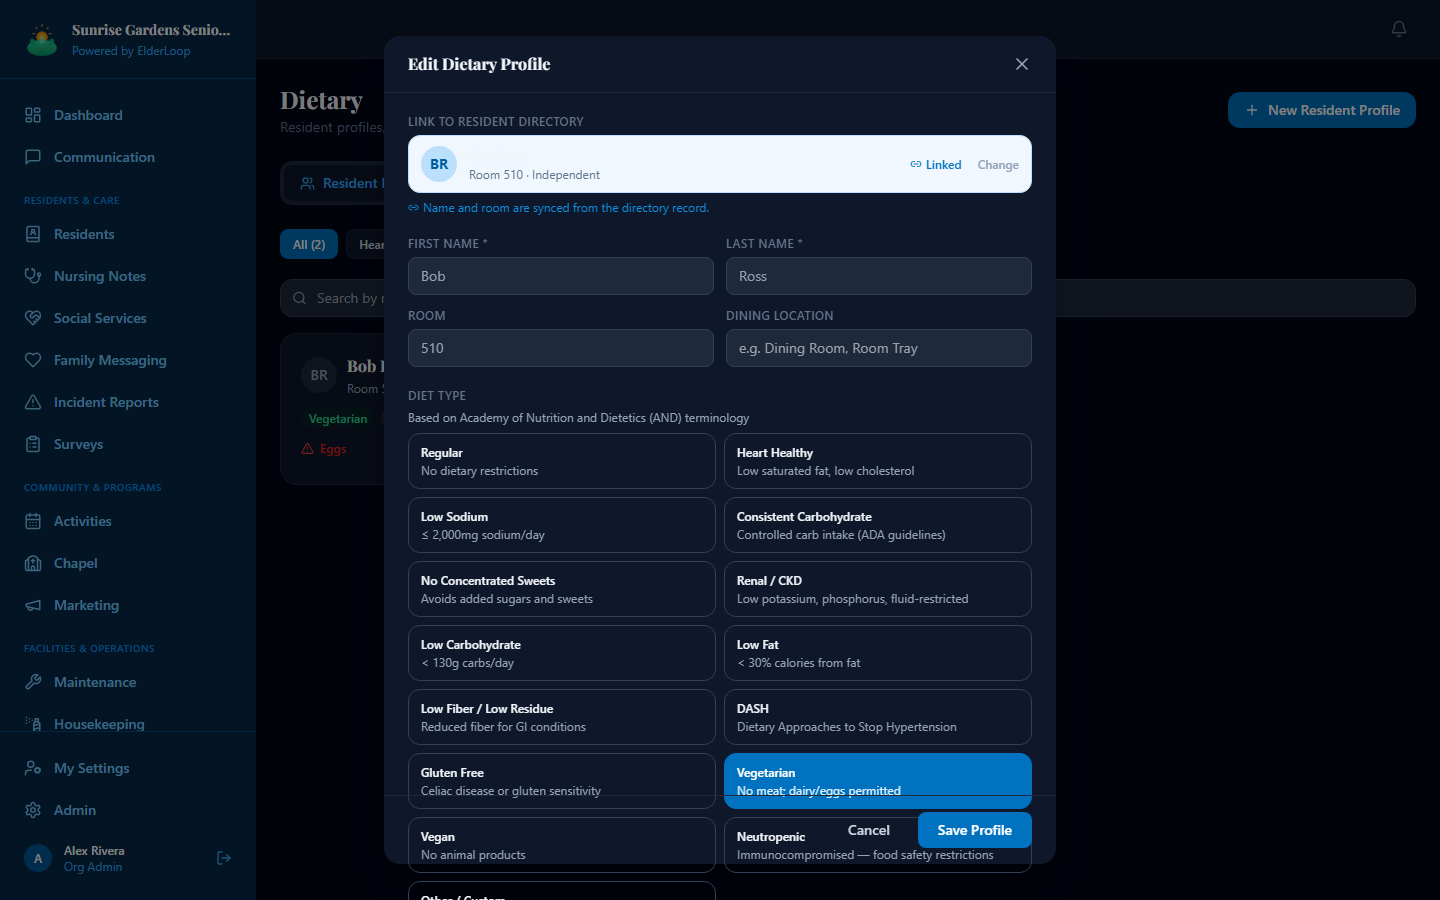
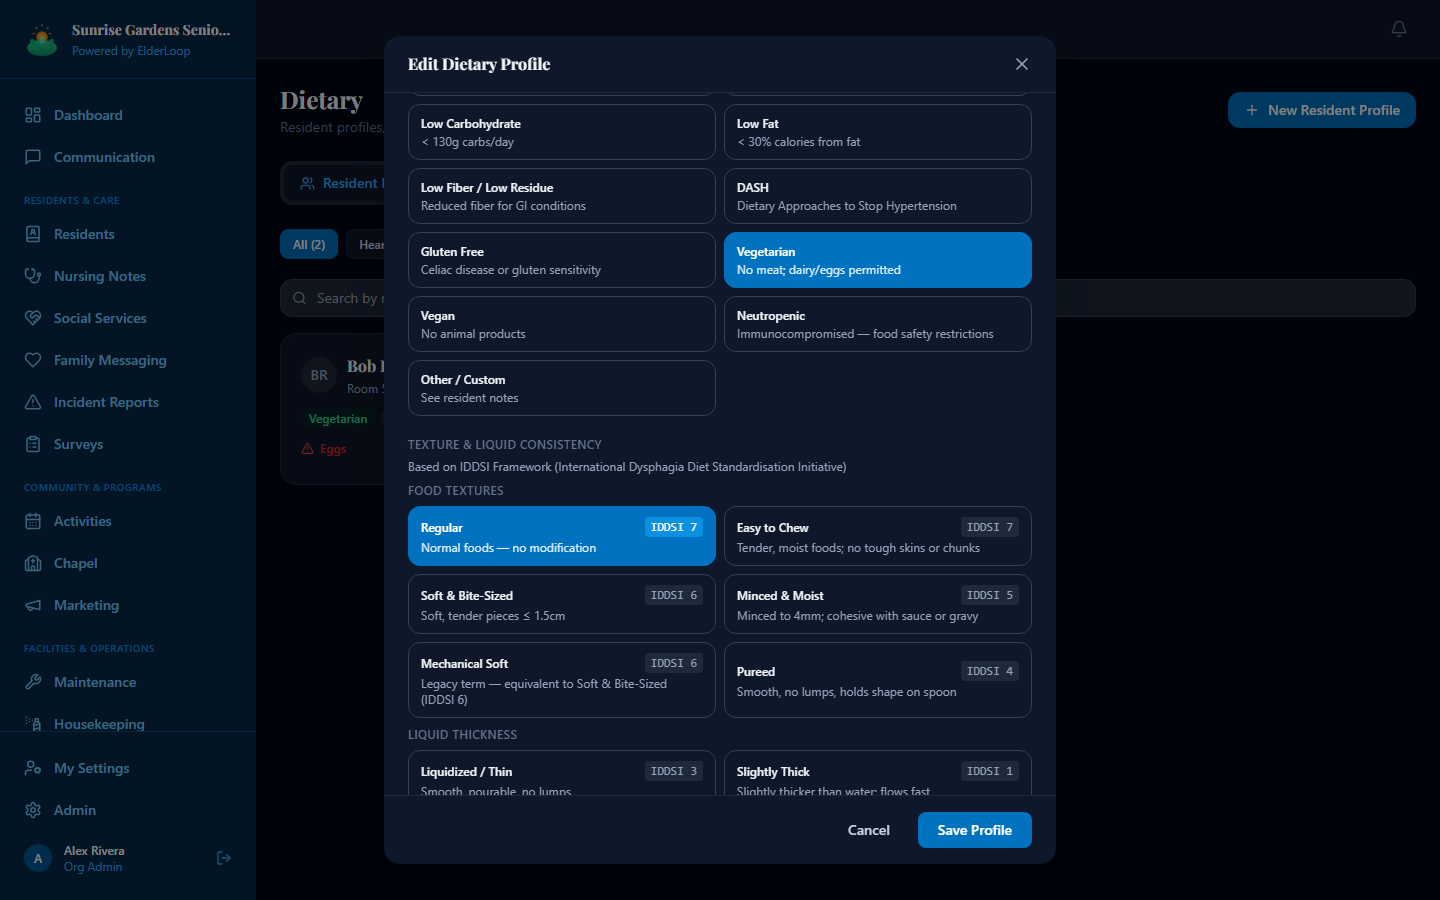
Add Activities training guide; fix fieldset overflow bug in 4 modals
- New public guide at /training/activities covering the month calendar,
  adding one-time and recurring activities with display controls (resident
  portal / digital signage visibility), the Upcoming list view, and Print
  Schedule - with real app screenshots. Added to the Training Library hub.

- Fix a real rendering bug found while capturing screenshots: Activities,
  Dietary, SupplyInventory, and SupplyVendors all used <fieldset
  disabled={readOnly} className="flex-1 overflow-y-auto ..."> as the
  scrollable container for a modal's form content. Fieldsets have a
  long-standing browser quirk where they don't clip overflowing content
  the way a <div> does, even with overflow-y: auto correctly computed -
  confirmed via scrollHeight (1076px) vastly exceeding clientHeight
  (702px) while the browser still painted the extra content bleeding
  into the footer buttons below. Fixed by moving the flex/overflow
  responsibility to a wrapping <div>, keeping <fieldset> only for its
  native disable-all-inputs behavior. Re-captured the affected Dietary
  training screenshot, which had this bug visible in the already-published
  guide.

Changed region(s): [[0.2812, 0.1244, 0.7188, 0.9644], [0.2812, 0.9956, 0.3438, 1.0]]

diff --git a/src/pages/training/ActivitiesGuide.jsx b/src/pages/training/ActivitiesGuide.jsx
@@ -1,0 +1,86 @@
+import { Frame, ShotsPair, Steps, Tip, SectionBlock, GuideHeader, GuideMasthead, GuideTOC, QuickRefTable, GuideFooter } from './TrainingComponents'
+
+const SHOT = (name) => `/training/activities/${name}`
+
+const NAV = [
+  { id: 'calendar', num: '01', label: 'Calendar View' },
+  { id: 'adding',   num: '02', label: 'Adding an Activity' },
+  { id: 'upcoming', num: '03', label: 'Upcoming List' },
+  { id: 'print',    num: '04', label: 'Print Schedule' },
+]
+
+export default function ActivitiesGuide() {
+  return (
+    <div className="min-h-screen bg-slate-50">
+      <GuideHeader backTo="/training" backLabel="← All training guides" />
+      <GuideMasthead
+        eyebrow="ElderLoop Staff Training"
+        title="Activities"
+        dek="A working guide to the activity calendar — building the month's programming, setting up recurring classes, and getting a schedule into residents' hands."
+        chips={['For: Activities staff, Supervisors, Managers', 'Where: Sidebar → Activities', '4 sections']}
+      />
+
+      <div className="max-w-5xl mx-auto px-6 grid md:grid-cols-[200px_minmax(0,1fr)] gap-10 py-4">
+        <GuideTOC nav={NAV} />
+
+        <main className="min-w-0">
+
+          <SectionBlock id="calendar" num="01" title="Calendar View"
+            dek="A full month at a glance, color-coded by category, with recurring classes already expanded onto every date they occur.">
+            <Frame src={SHOT('calendar-view.png')} alt="Activities month calendar" caption="July at a glance, filtered by category chips along the top" />
+            <h3 className="text-xs font-bold uppercase tracking-wide text-slate-400 mb-3">How to use it</h3>
+            <Steps items={[
+              { k: 1, text: 'Use the category chips (Fitness, Arts & Crafts, Games, Social, and more) to filter the calendar down to one type of programming at a time.' },
+              { k: 2, text: <>Click any empty spot on a day to add an activity for that date — click an existing event pill to open and edit it.</> },
+              { k: 3, text: <>A small refresh icon on an event means it's <b className="text-slate-900">recurring</b> — editing one occurrence edits the whole series, not just that day.</> },
+            ]} />
+          </SectionBlock>
+
+          <SectionBlock id="adding" num="02" title="Adding an Activity"
+            dek="Title, category, schedule, and where it repeats — plus control over whether it shows up for residents and on the lobby TV.">
+            <Frame src={SHOT('activity-modal.png')} alt="Activity form" caption="Category, schedule, and repeat options" />
+            <h3 className="text-xs font-bold uppercase tracking-wide text-slate-400 mb-3">How to use it</h3>
+            <Steps items={[
+              { k: 1, text: 'Give it a title, pick a category (this sets the color used everywhere the activity appears), and set the date, time, and location.' },
+              { k: 2, text: <>Toggle <b className="text-slate-900">All day event</b> for anything without a specific time slot.</> },
+              { k: 3, text: <>Under <b className="text-slate-900">Repeat</b>, choose Daily, Weekly, Every 2 weeks, or Monthly for a recurring class — set a Repeat Until date, or leave it blank to repeat indefinitely.</> },
+              { k: 4, text: <>Use <b className="text-slate-900">Show in Resident Portal</b> and <b className="text-slate-900">Show on Digital Signage</b> to control where it's visible — turn either off for a staff-only or internal planning entry.</> },
+            ]} />
+            <Tip>Deleting a recurring activity removes the whole series, not just one occurrence — there's a confirmation before it happens, but there's no way to delete a single date out of a recurring series today.</Tip>
+          </SectionBlock>
+
+          <SectionBlock id="upcoming" num="03" title="Upcoming List"
+            dek="The same activities as a scannable list instead of a grid — grouped by day, showing the next three months.">
+            <Frame src={SHOT('upcoming-list.png')} alt="Upcoming activities list view" caption="Grouped by date, with Today called out at the top" />
+            <h3 className="text-xs font-bold uppercase tracking-wide text-slate-400 mb-3">How to use it</h3>
+            <Steps items={[
+              { k: 1, text: <>Switch to <b className="text-slate-900">Upcoming</b> from the view toggle next to Calendar.</> },
+              { k: 2, text: 'This is often easier than the calendar for a quick "what’s happening today" check, or for reading off a printed staff handoff sheet.' },
+            ]} />
+          </SectionBlock>
+
+          <SectionBlock id="print" num="04" title="Print Schedule"
+            dek="A clean, printable version of the current month's calendar — grouped by day with times, locations, and descriptions.">
+            <Frame src={SHOT('print-schedule-modal.png')} alt="Print Schedule preview" caption="Preview before printing or posting" />
+            <h3 className="text-xs font-bold uppercase tracking-wide text-slate-400 mb-3">How to use it</h3>
+            <Steps items={[
+              { k: 1, text: <>Click <b className="text-slate-900">Print Schedule</b> from the Calendar view — it uses whatever month and category filter you currently have selected.</> },
+              { k: 2, text: <>Click <b className="text-slate-900">Print Schedule</b> again inside the preview to open a print-formatted version in a new tab, ready to print or post on a bulletin board.</> },
+            ]} />
+          </SectionBlock>
+
+          <QuickRefTable rows={[
+            ['Add a one-time event', 'Calendar → click a day → Add Activity'],
+            ['Set up a recurring class', 'Add Activity → Repeat → Weekly/Monthly/etc.'],
+            ['Hide something from residents', 'Add Activity → turn off Show in Resident Portal'],
+            ['Check what’s happening today', 'Upcoming view'],
+            ['Filter to one type of activity', 'Category chips above the calendar'],
+            ['Get a printable monthly schedule', 'Print Schedule button'],
+          ]} />
+
+          <GuideFooter label="Activities Module" />
+        </main>
+      </div>
+    </div>
+  )
+}

diff --git a/src/pages/dietary/Dietary.jsx b/src/pages/dietary/Dietary.jsx
@@ -361,7 +361,8 @@ function ResidentProfileModal({ resident, menus, canEdit, onClose, onSave }) {
           <h2 className="font-display font-semibold text-slate-800 dark:text-slate-100">{resident ? 'Edit Dietary Profile' : 'New Resident Profile'}</h2>
           <button onClick={onClose} className="text-slate-400 hover:text-slate-600"><X size={20} /></button>
         </div>
-        <fieldset disabled={readOnly} className="flex-1 overflow-y-auto px-6 py-5 space-y-5 disabled:opacity-75">
+        <div className="flex-1 overflow-y-auto px-6 py-5">
+        <fieldset disabled={readOnly} className="space-y-5 disabled:opacity-75">
           {error && <div className="px-4 py-2 bg-red-50 dark:bg-red-950/50 border border-red-200 dark:border-red-900/50 rounded-lg text-red-700 dark:text-red-400 text-sm">{error}</div>}
 
           {/* ── Link to Resident Directory ── */}
@@ -559,6 +560,7 @@ function ResidentProfileModal({ resident, menus, canEdit, onClose, onSave }) {
             <p className="text-xs text-slate-400 mt-1">Leave blank to use the org's active menu automatically.</p>
           </div>
         </fieldset>
+        </div>
         <div className="px-6 py-4 border-t border-slate-100 dark:border-slate-800 flex justify-end gap-3 flex-shrink-0">
           <button onClick={onClose} className="px-4 py-2 text-sm text-slate-600 dark:text-slate-300 hover:text-slate-800 dark:hover:text-slate-100 font-medium">{readOnly ? 'Close' : 'Cancel'}</button>
           {!readOnly && (

diff --git a/src/pages/supply/SupplyVendors.jsx b/src/pages/supply/SupplyVendors.jsx
@@ -51,7 +51,8 @@ function VendorModal({ vendor, orgId, canEdit, onClose, onSaved }) {
           <h2 className="font-display font-semibold text-slate-800 dark:text-slate-100">{isNew ? 'Add Vendor' : 'Edit Vendor'}</h2>
           <button onClick={onClose} className="text-slate-400 hover:text-slate-600 dark:hover:text-slate-300"><X size={20} /></button>
         </div>
-        <fieldset disabled={readOnly} className="flex-1 overflow-y-auto px-6 py-5 space-y-4 disabled:opacity-75">
+        <div className="flex-1 overflow-y-auto px-6 py-5">
+        <fieldset disabled={readOnly} className="space-y-4 disabled:opacity-75">
           {error && <div className="px-4 py-2 bg-red-50 dark:bg-red-950/50 border border-red-200 dark:border-red-900 rounded-lg text-red-700 dark:text-red-400 text-sm">{error}</div>}
           <div>
             <label className={labelCls}>Vendor Name *</label>
@@ -106,6 +107,7 @@ function VendorModal({ vendor, orgId, canEdit, onClose, onSaved }) {
             </div>
           </div>
         </fieldset>
+        </div>
         <div className="px-6 py-4 border-t border-slate-100 dark:border-slate-800 flex items-center justify-between flex-shrink-0">
           <div>{!isNew && canEdit && <button onClick={handleDelete} className="flex items-center gap-1.5 px-3 py-2 text-red-500 hover:text-red-700 hover:bg-red-50 dark:hover:bg-red-950/50 rounded-lg text-sm transition-colors"><Trash2 size={14} /> Delete</button>}</div>
           <div className="flex gap-3">

diff --git a/src/App.jsx b/src/App.jsx
@@ -51,6 +51,7 @@ const DietaryGuide   = lazy(() => import('./pages/training/DietaryGuide'))
 const NursingGuide   = lazy(() => import('./pages/training/NursingGuide'))
 const MaintenanceGuide = lazy(() => import('./pages/training/MaintenanceGuide'))
 const HousekeepingGuide = lazy(() => import('./pages/training/HousekeepingGuide'))
+const ActivitiesGuide = lazy(() => import('./pages/training/ActivitiesGuide'))
 
 // Public TV & role-specific portals (outside the staff Layout)
 import TV            from './pages/tv/TV'
@@ -212,6 +213,7 @@ export default function App() {
         <Route path="/training/nursing"             element={<Lazy><NursingGuide /></Lazy>} />
         <Route path="/training/maintenance"         element={<Lazy><MaintenanceGuide /></Lazy>} />
         <Route path="/training/housekeeping"        element={<Lazy><HousekeepingGuide /></Lazy>} />
+        <Route path="/training/activities"          element={<Lazy><ActivitiesGuide /></Lazy>} />
         <Route path="/resident"       element={user ? <ResidentPortal /> : <Navigate to="/login" replace />} />
         <Route path="/family-portal"  element={user ? <FamilyPortal />  : <Navigate to="/login" replace />} />
         <Route path="/rep"            element={!user ? <Navigate to="/login" replace /> : isSuperAdmin ? <Lazy><RepPortal /></Lazy> : <Navigate to="/app/dashboard" replace />} />

diff --git a/src/pages/activities/Activities.jsx b/src/pages/activities/Activities.jsx
@@ -146,7 +146,8 @@ function ActivityModal({ activity, canEdit, onClose, onSave, onDelete }) {
           <button onClick={onClose} className="text-slate-400 hover:text-slate-600"><X size={20} /></button>
         </div>
 
-        <fieldset disabled={readOnly} className="flex-1 overflow-y-auto px-6 py-5 space-y-5 disabled:opacity-75">
+        <div className="flex-1 overflow-y-auto px-6 py-5">
+        <fieldset disabled={readOnly} className="space-y-5 disabled:opacity-75">
           {error && <div className="px-4 py-2 bg-red-50 dark:bg-red-950/50 border border-red-200 dark:border-red-900/50 rounded-lg text-red-700 dark:text-red-400 text-sm">{error}</div>}
 
           {/* Title */}
@@ -269,6 +270,7 @@ function ActivityModal({ activity, canEdit, onClose, onSave, onDelete }) {
             </label>
           </div>
         </fieldset>
+        </div>
 
         <div className="px-6 py-4 border-t border-slate-100 dark:border-slate-800 flex items-center justify-between gap-3 flex-shrink-0">
           {!readOnly && activity?.id ? (

diff --git a/src/pages/supply/SupplyInventory.jsx b/src/pages/supply/SupplyInventory.jsx
@@ -148,7 +148,8 @@ function ItemModal({ item, vendors, orgId, profileId, canEdit, onClose, onSaved 
         </div>
 
         {/* Body */}
-        <fieldset disabled={readOnly} className="flex-1 overflow-y-auto px-6 py-5 disabled:opacity-75">
+        <div className="flex-1 overflow-y-auto px-6 py-5">
+        <fieldset disabled={readOnly} className="disabled:opacity-75">
           {error && (
             <div className="mb-4 px-4 py-2 bg-red-50 dark:bg-red-950/50 border border-red-200 dark:border-red-900 rounded-lg text-red-700 dark:text-red-400 text-sm">
               {error}
@@ -346,6 +347,7 @@ function ItemModal({ item, vendors, orgId, profileId, canEdit, onClose, onSaved 
             </div>
           )}
         </fieldset>
+        </div>
 
         {/* Footer */}
         <div className="px-6 py-4 border-t border-slate-100 dark:border-slate-800 flex items-center justify-between flex-shrink-0">

diff --git a/src/pages/training/TrainingHub.jsx b/src/pages/training/TrainingHub.jsx
@@ -1,5 +1,5 @@
 import { Link } from 'react-router-dom'
-import { HeartHandshake, ArrowRight, UtensilsCrossed, Stethoscope, Wrench, SprayCan } from 'lucide-react'
+import { HeartHandshake, ArrowRight, UtensilsCrossed, Stethoscope, Wrench, SprayCan, CalendarDays } from 'lucide-react'
 
 const GUIDES = [
   {
@@ -36,6 +36,13 @@ const GUIDES = [
     title: 'Housekeeping',
     desc: 'LTC room and common-area inspection checklists, plus booking, completing, and billing independent living cleaning requests.',
     tag: '2 sections',
+  },
+  {
+    to: '/training/activities',
+    icon: CalendarDays,
+    title: 'Activities',
+    desc: 'Building the activity calendar, setting up recurring classes, the Upcoming list view, and printing a monthly schedule.',
+    tag: '4 sections',
   },
 ]
 
